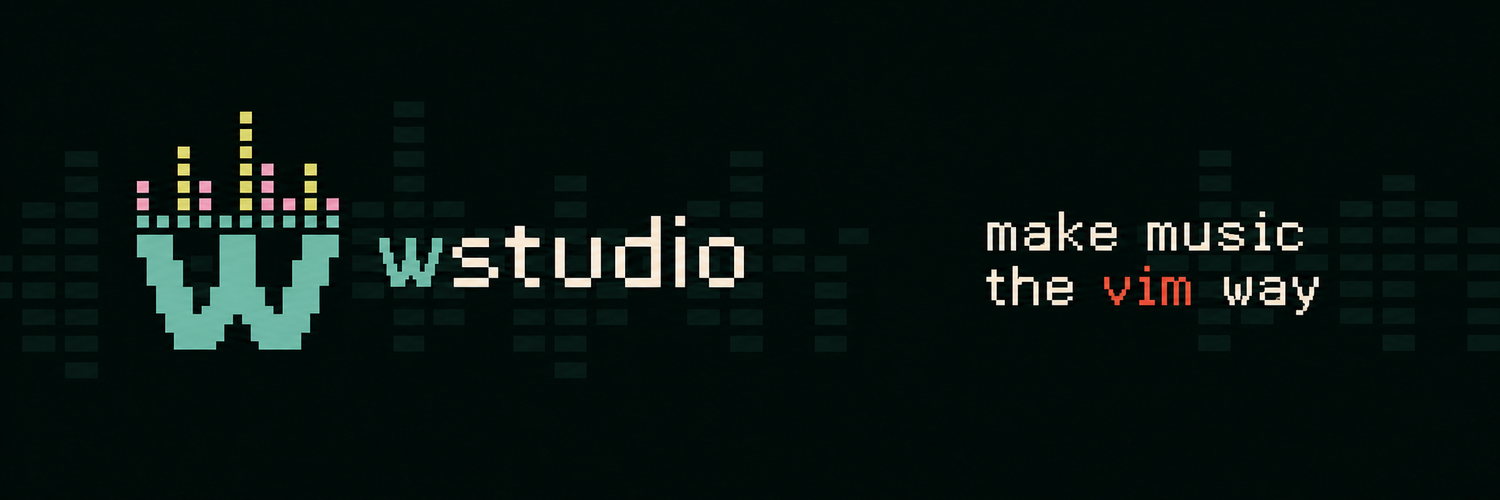
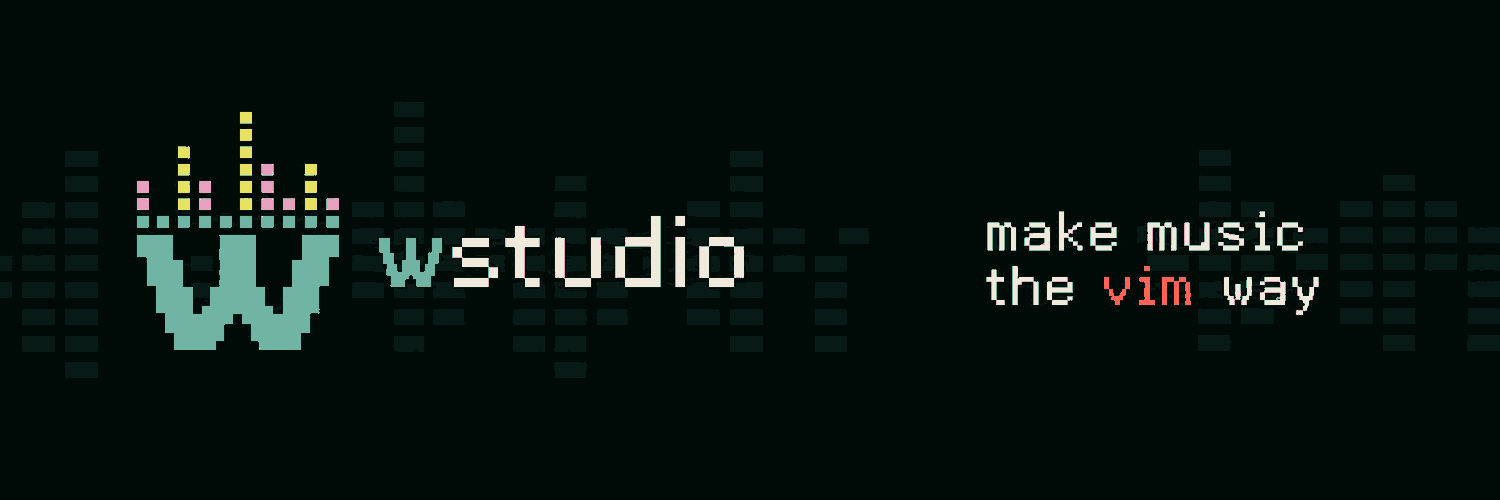
art: enforce clean pixel palettes

diff --git a/docs/assets/promo/README.md b/docs/assets/promo/README.md
@@ -12,3 +12,6 @@ for future crops and exports.
 
 Each image also has a Patina Light sibling with `-light` before the dimensions
 or `-source`, for example `wstudio-social-card-light-1200x630.png`.
+
+All artwork uses a fixed pixel-art palette with hard color transitions. Keep
+edges on the pixel grid and use nearest-neighbor scaling for future exports.
